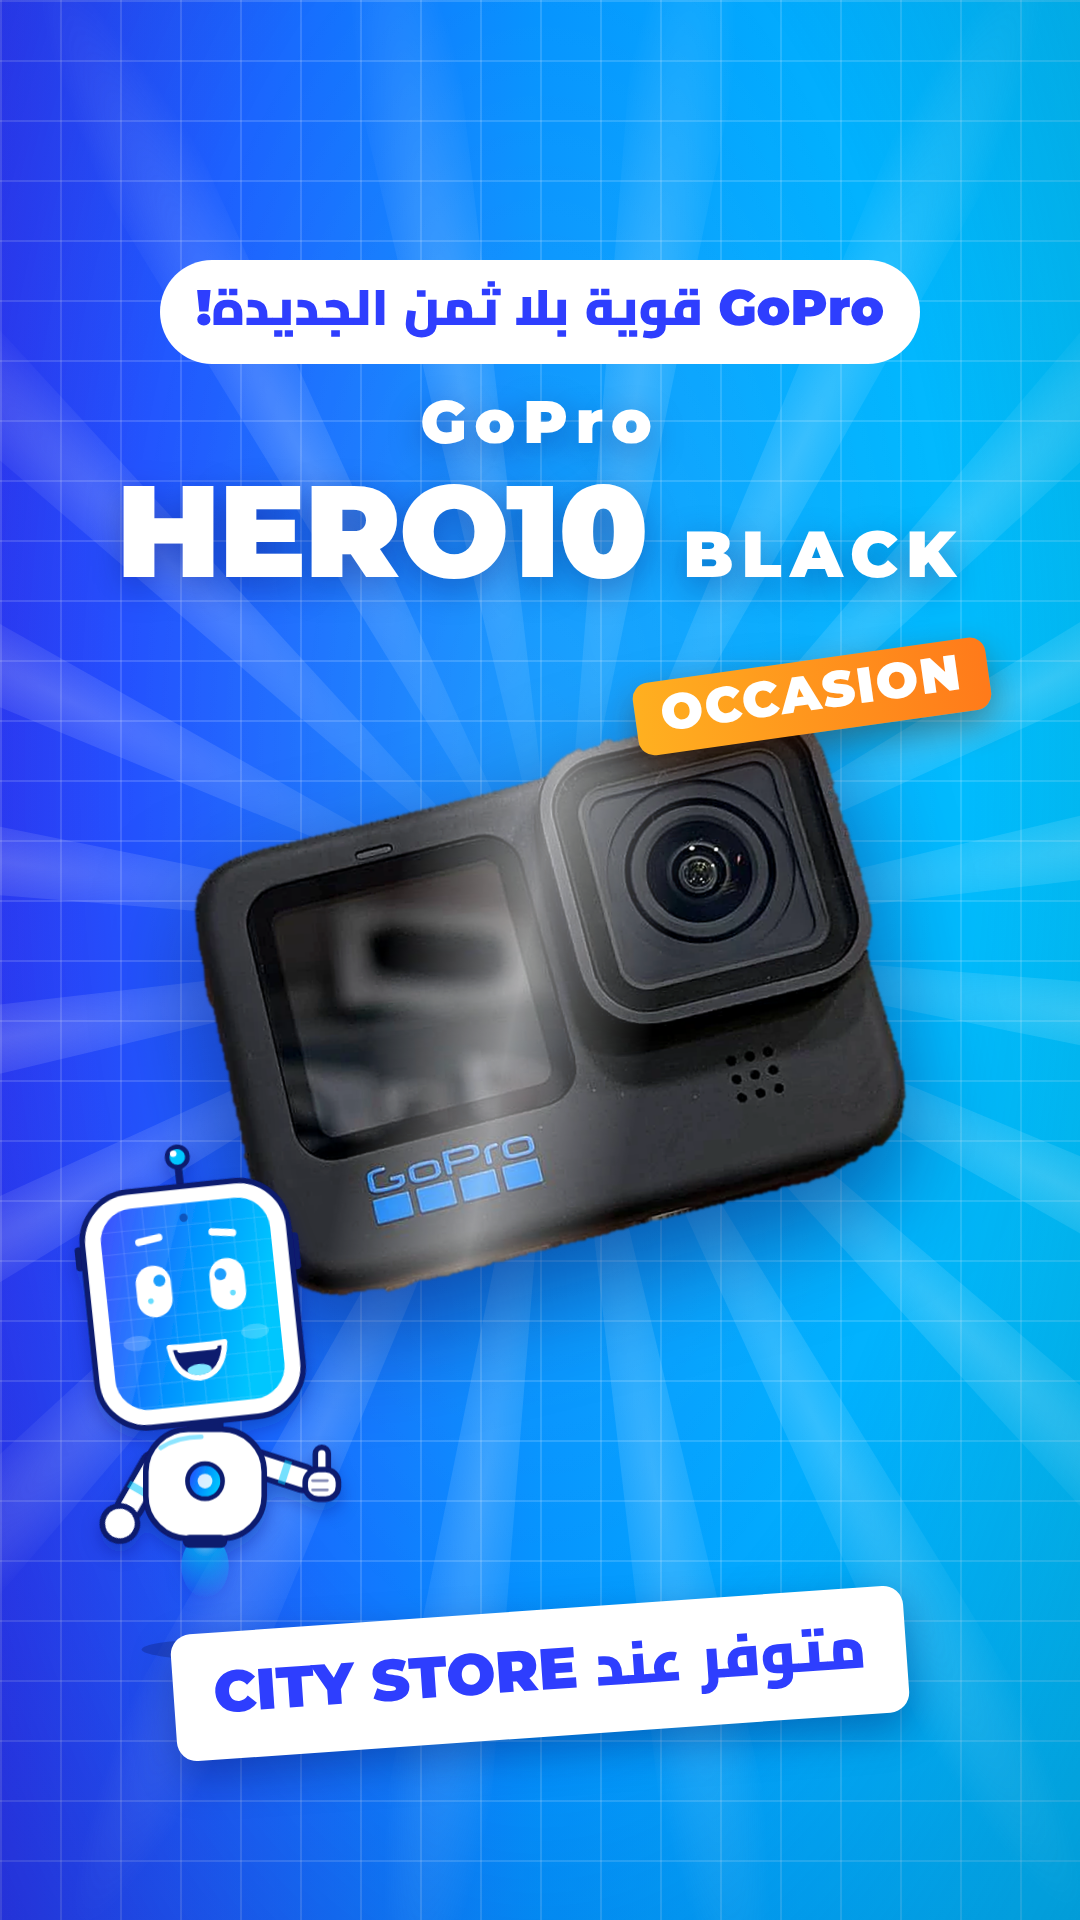
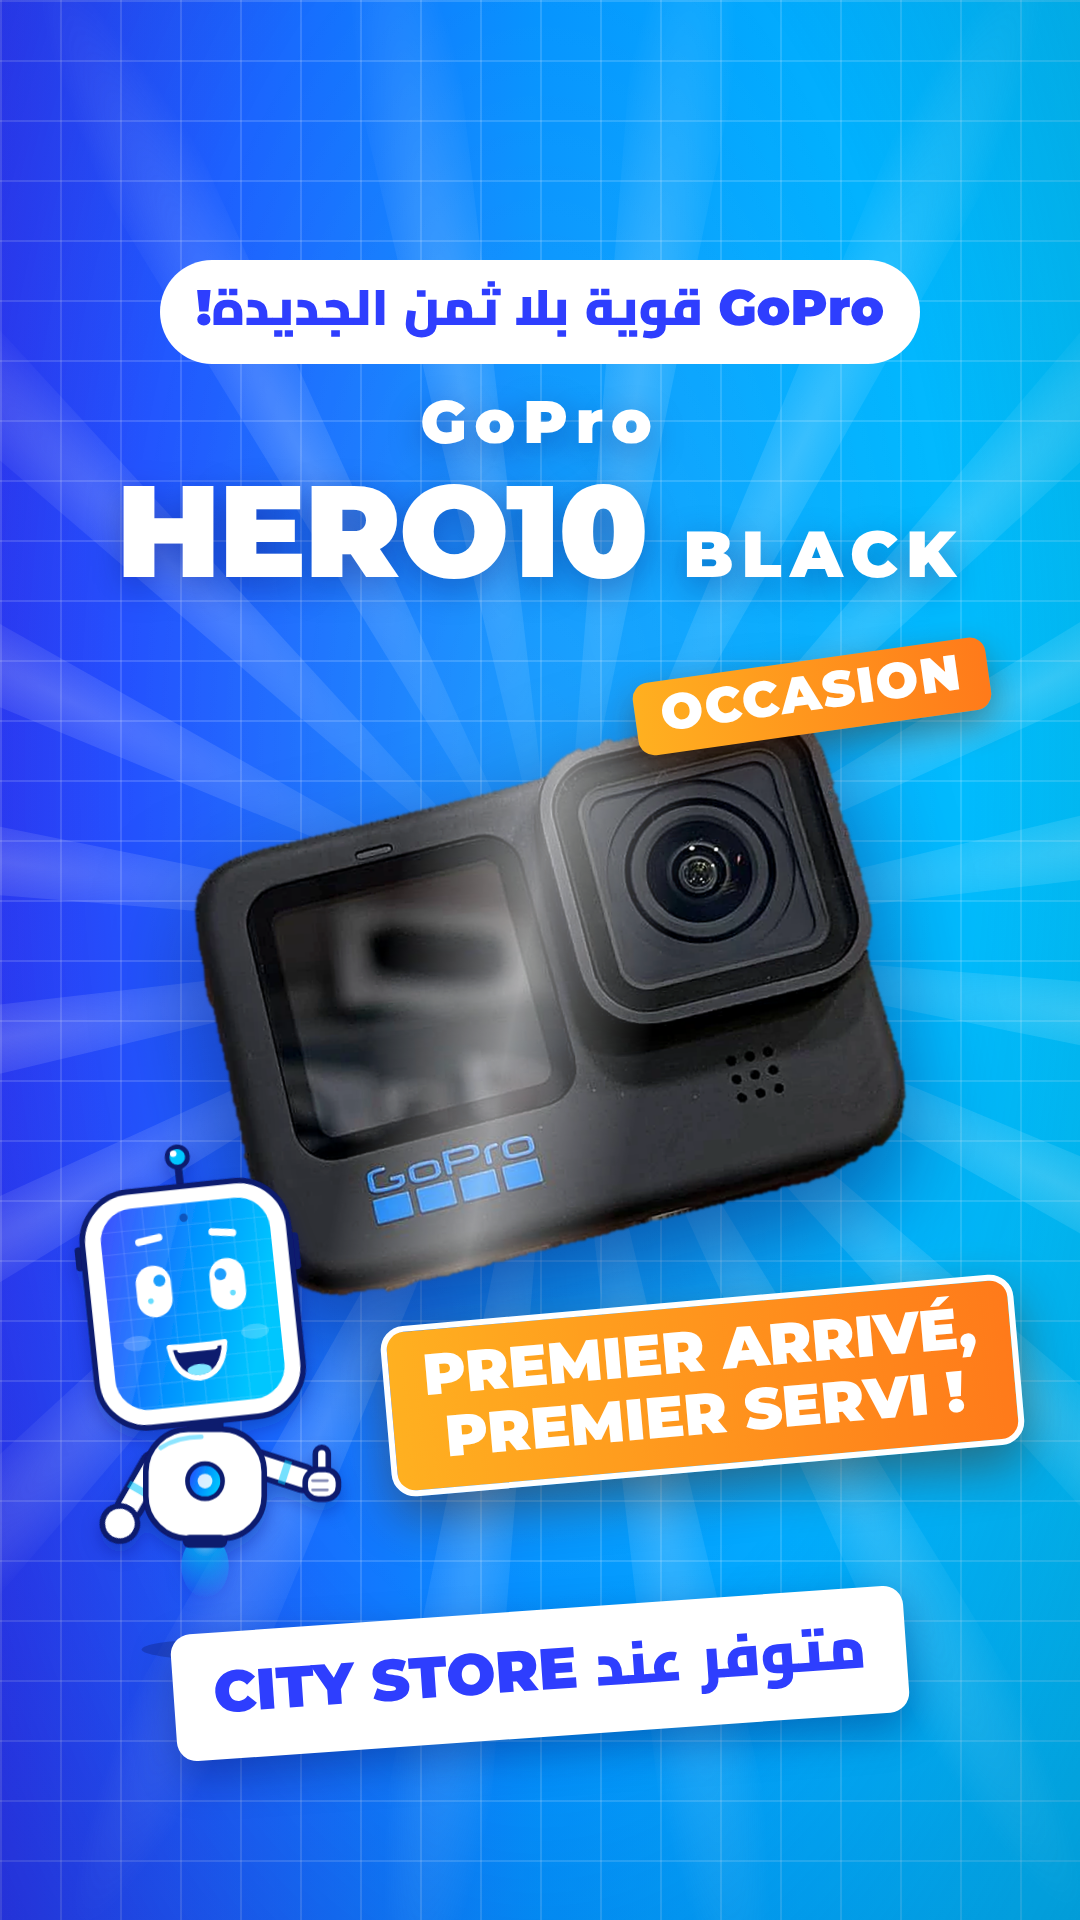
HERO10 cover: highlight "PREMIER ARRIVÉ, PREMIER SERVI !"
Claude-Session: https://claude.ai/code/session_01B6UvVnyVQqoyQ1GwELGaCV

Changed region(s): [[0.3361, 0.6562, 0.9778, 0.8125]]

diff --git a/src/reels/hero10/Hero10Cover.tsx b/src/reels/hero10/Hero10Cover.tsx
@@ -24,6 +24,10 @@ export const Hero10Cover: React.FC = () => {
         <ProductImage src={cam.src} aspect={cam.aspect} width={700} sweep={0.45} />
       </div>
       <div style={{ position: "absolute", right: 90, top: 660, transform: "rotate(-8deg)", background: "linear-gradient(90deg,#FFB020,#FF7A1A)", color: "#fff", fontFamily: FONT, fontWeight: 900, fontSize: 50, padding: "2px 26px 10px", borderRadius: 16, boxShadow: "0 14px 34px rgba(80,30,0,0.4)", letterSpacing: 2 }}>OCCASION</div>
+      {/* single used unit: "first come, first served" highlighted */}
+      <div style={{ position: "absolute", right: 60, top: 1300, transform: "rotate(-5deg)", background: "linear-gradient(90deg,#FFB020,#FF7A1A)", color: "#fff", fontFamily: FONT, fontWeight: 900, fontSize: 58, lineHeight: 1.08, textAlign: "center", padding: "14px 34px 20px", borderRadius: 24, border: "6px solid #fff", boxShadow: "0 20px 50px rgba(80,30,0,0.45)", whiteSpace: "nowrap" }}>
+        PREMIER ARRIVÉ,<br />PREMIER SERVI !
+      </div>
       <div style={{ position: "absolute", left: 20, top: 1150 }}>
         <Citybot id="h10cover" width={370} expression="excited" mouth="grin" tilt={-6} rightArm={{ rot: 72, hand: "thumb" }} leftArm={{ rot: 30, hand: "open" }} hover={12} />
       </div>
